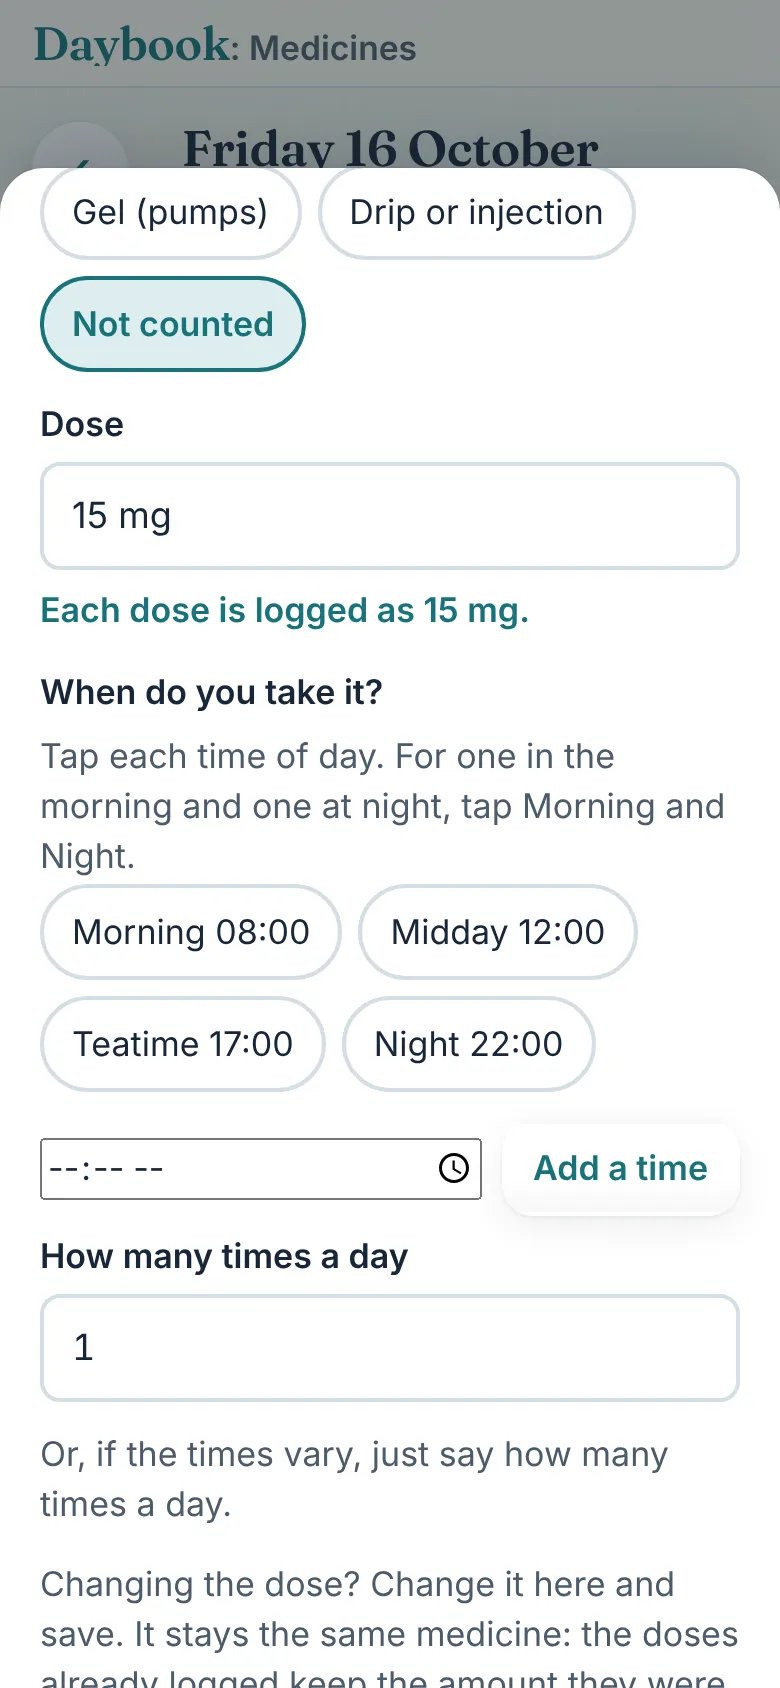
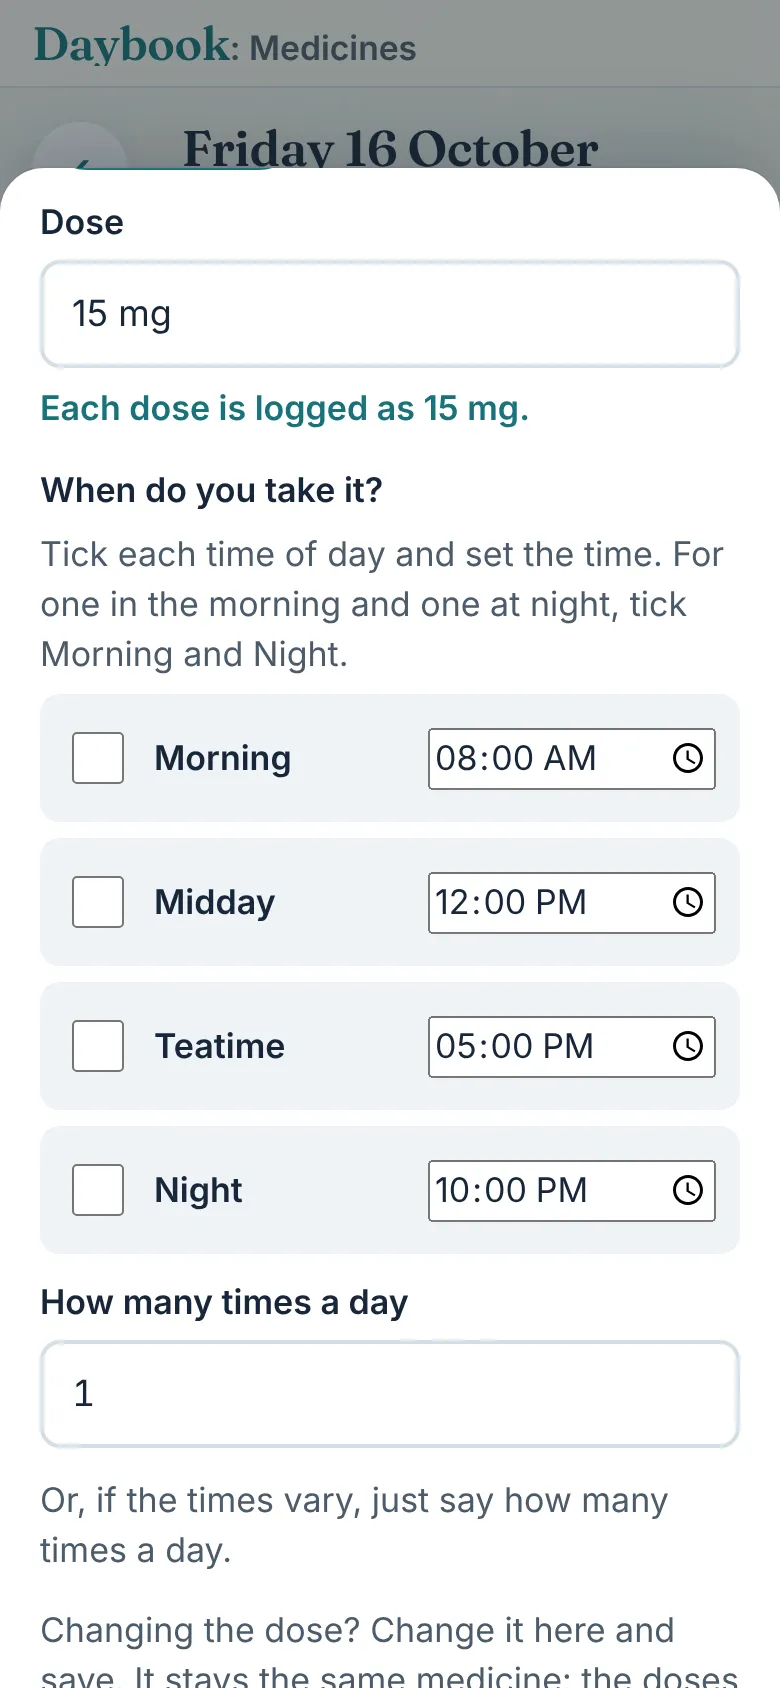
Guide frames from the app's v255: morning and night with their own times
Claude-Session: https://claude.ai/code/session_011Z7XoZPgBCYp6woCmABn2P

diff --git a/js/site.js b/js/site.js
@@ -110,7 +110,7 @@
       if (!reduced && auto !== false) play(); else stop();
     };
     var load = function () {
-      return fetch('guide/guide.json?v=8').then(function (r) { if (!r.ok) throw new Error('guide ' + r.status); return r.json(); });
+      return fetch('guide/guide.json?v=9').then(function (r) { if (!r.ok) throw new Error('guide ' + r.status); return r.json(); });
     };
     load().then(function (d) {
       G.data = d;

diff --git a/privacy.html b/privacy.html
@@ -106,6 +106,6 @@
       <p>Daybook is not a medical device and gives no medical advice. In an emergency call 999; for urgent advice call 111.</p>
     </div>
   </footer>
-  <script src="js/site.js?v=11" defer></script>
+  <script src="js/site.js?v=12" defer></script>
 </body>
 </html>

diff --git a/support.html b/support.html
@@ -75,6 +75,6 @@
       <p>Daybook is not a medical device and gives no medical advice. In an emergency call 999; for urgent advice call 111.</p>
     </div>
   </footer>
-  <script src="js/site.js?v=11" defer></script>
+  <script src="js/site.js?v=12" defer></script>
 </body>
 </html>

diff --git a/terms.html b/terms.html
@@ -83,6 +83,6 @@
       <p>Daybook is not a medical device and gives no medical advice. In an emergency call 999; for urgent advice call 111.</p>
     </div>
   </footer>
-  <script src="js/site.js?v=11" defer></script>
+  <script src="js/site.js?v=12" defer></script>
 </body>
 </html>

diff --git a/beta.html b/beta.html
@@ -153,6 +153,6 @@
     </div>
   </footer>
 
-  <script src="js/site.js?v=11" defer></script>
+  <script src="js/site.js?v=12" defer></script>
 </body>
 </html>

diff --git a/index.html b/index.html
@@ -417,6 +417,6 @@
     </div>
   </footer>
 
-  <script src="js/site.js?v=11" defer></script>
+  <script src="js/site.js?v=12" defer></script>
 </body>
 </html>

diff --git a/preview-e2k1x5.html b/preview-e2k1x5.html
@@ -456,6 +456,6 @@
     </div>
   </footer>
 
-  <script src="js/site.js?v=11" defer></script>
+  <script src="js/site.js?v=12" defer></script>
 </body>
 </html>
